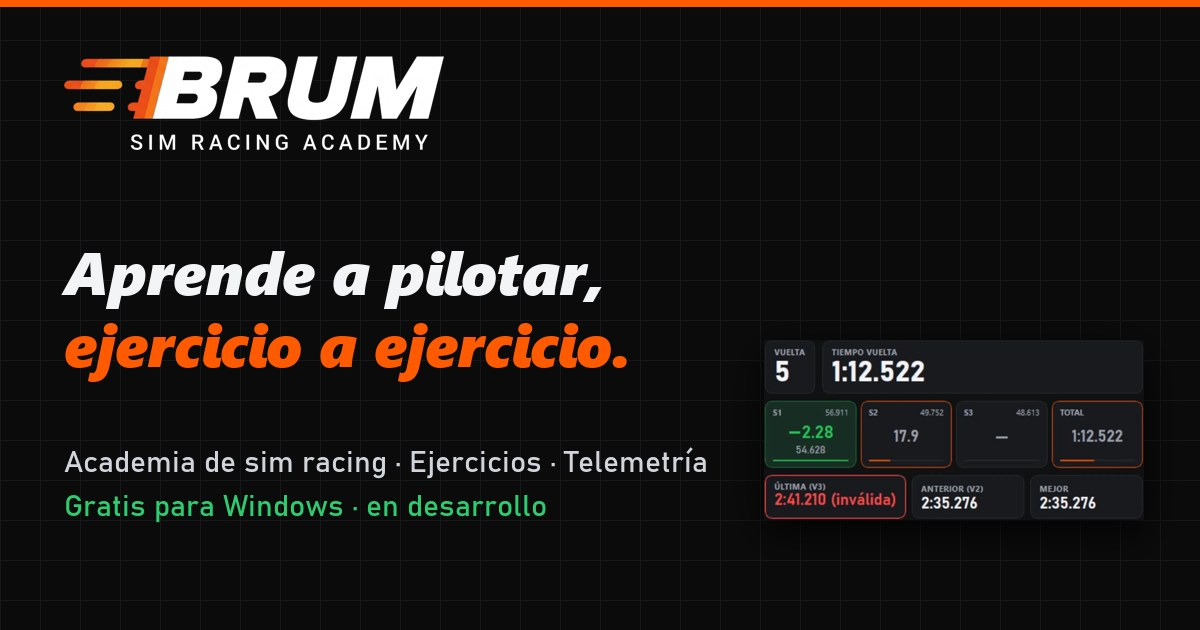
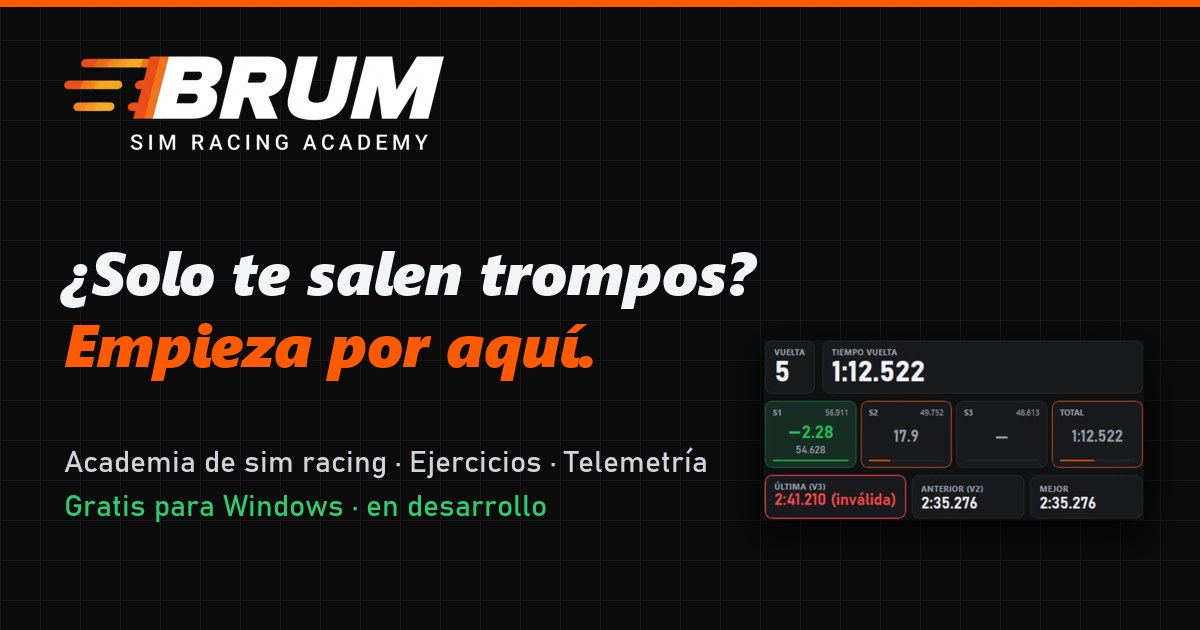
Web: vuelve la frase de portada y En vivo animado como imagen
- Titular de nuevo «¿Solo te salen trompos? Empieza por aquí.» (el que prefiere el autor).
- La portada enseña En vivo reproduciendo la vuelta real, con su captura detrás.
- La tarjeta del ejercicio pasa a su sección, «Así se gana una medalla.».
- Cómo funciona: se abre en «Conduce» con el vídeo de En vivo en marcha (antes no
  arrancaba) y ya no se corta por la derecha.
- Niveles en el móvil sin cortarse; «Usar vueltas que ya tengo» en Conduce.

Changed region(s): [[0.0308, 0.3921, 0.6475, 0.4825], [0.0617, 0.5127, 0.5242, 0.6032]]

diff --git a/index.html b/index.html
@@ -10,7 +10,7 @@
 <link rel="icon" type="image/png" sizes="32x32" href="assets/img/favicon-32.png">
 <link rel="apple-touch-icon" href="assets/img/apple-touch-icon.png">
 <meta property="og:type" content="website">
-<meta property="og:title" content="Brum · Aprende a pilotar, ejercicio a ejercicio.">
+<meta property="og:title" content="Brum · ¿Solo te salen trompos? Empieza por aquí.">
 <meta property="og:description" content="Academia de sim racing en tu PC: ejercicios, medallas y telemetría. Gratis para Windows.">
 <meta property="og:url" content="https://aangeelr.github.io/brum/">
 <meta property="og:image" content="https://aangeelr.github.io/brum/assets/img/redes.jpg">
@@ -53,11 +53,11 @@
 <section class="inicio" id="inicio">
   <div class="inicio-texto">
     <h1 class="titular">
-      <span class="linea"><span>Aprende a pilotar,</span></span>
-      <span class="linea"><span>ejercicio a ejercicio.</span></span>
+      <span class="linea"><span>¿Solo te salen trompos?</span></span>
+      <span class="linea"><span>Empieza por aquí.</span></span>
     </h1>
     <div class="inicio-abajo">
-      <p class="entrada">¿Solo te salen trompos? Normal. Brum es una academia de sim racing en tu PC: ejercicios cortos que te dicen qué hacer en pista y te corrigen con tu telemetría.</p>
+      <p class="entrada">Brum es una academia de sim racing en tu PC: ejercicios cortos que te dicen qué hacer en pista, te corrigen con tu telemetría y te dan Bronce, Plata u Oro.</p>
       <div class="accion">
         <a class="boton" href="https://github.com/aangeelr/brum/releases/latest/download/Brum-instalador.exe">
           <svg class="ico" viewBox="0 0 24 24" aria-hidden="true"><path d="M12 3v12m0 0-5-5m5 5 5-5M4 19h16" /></svg>
@@ -68,30 +68,51 @@
     </div>
   </div>
 
-  <figure class="inicio-ej">
-    <div class="ej-escena" data-tilt>
-      <img class="ej-fondo" src="assets/capturas/ejercicio-ficha-1600.webp" width="1600" height="814" alt="" aria-hidden="true" fetchpriority="high">
-      <div class="ej" data-ui data-ej role="img" aria-label="Ejemplo de tres intentos del ejercicio Track Limits: sin medalla, Plata y Oro, según las vueltas invalidadas.">
-        <div class="ej-cab" aria-hidden="true">
-          <span class="nivel nivel-1">Fundamentos</span>
-          <b>Track Limits</b><span class="ej-vueltas">8 vueltas</span>
+  <figure class="inicio-ej inicio-hud">
+    <div class="hud-escena" data-tilt>
+      <img class="hud-fondo" src="assets/capturas/envivo-1600.webp" width="1600" height="814" alt="" aria-hidden="true" fetchpriority="high">
+      <div class="hud" data-ui data-hud role="img" aria-label="Reproducción de una vuelta real en Oulton Park: el delta, los sectores, los pedales y la velocidad cambian como en la pantalla En vivo de Brum.">
+        <div class="hud-cab" aria-hidden="true">
+          <span class="hud-titulo">En vivo</span>
+          <span class="hud-grab"><i></i>Assetto Corsa EVO · Oulton Park · MX-5 ND Cup</span>
         </div>
-        <p class="ej-obj" aria-hidden="true"><b>Objetivo:</b> 8 vueltas seguidas con como mucho una invalidada por salida de pista.</p>
-        <div class="ej-medallas" aria-hidden="true">
-          <div class="med med-oro" data-med="3"><i>★★★</i><b>Oro</b><span>hasta 1 fuera</span></div>
-          <div class="med med-plata" data-med="2"><i>★★</i><b>Plata</b><span>hasta 2</span></div>
-          <div class="med med-bronce" data-med="1"><i>★</i><b>Bronce</b><span>hasta 3</span></div>
+        <div class="hud-delta" aria-hidden="true">
+          <div class="hud-delta-cab"><b>Delta</b> vs vuelta anterior 1:15.777 <span class="hud-delta-n" data-hud-delta>±0.000</span></div>
+          <div class="hud-barra"><span class="hud-barra-0"></span><span class="hud-barra-f" data-hud-barra></span></div>
+          <div class="hud-escala"><span>+1.5</span><span>+1</span><span>+0.5</span><span>0</span><span>−0.5</span><span>−1</span><span>−1.5</span></div>
         </div>
-        <div class="ej-intento" aria-hidden="true">
-          <div class="ej-intento-cab"><b data-ej-n>Intento 1</b><span>Invalidadas <b data-ej-inv>0</b></span></div>
-          <ol class="ej-chips" data-ej-chips>
-            <li>V1</li><li>V2</li><li>V3</li><li>V4</li><li>V5</li><li>V6</li><li>V7</li><li>V8</li>
-          </ol>
+        <div class="hud-cuerpo" aria-hidden="true">
+          <div class="hud-izq">
+            <div class="hud-fila">
+              <div class="hud-caja hud-vuelta"><small>Vuelta</small><b>2</b></div>
+              <div class="hud-caja hud-tiempo"><small>Tiempo vuelta</small><b data-hud-tiempo>0:00.000</b></div>
+            </div>
+            <div class="hud-sectores">
+              <div class="hud-sec" data-sec="0"><small>S1 <i data-ref></i></small><b data-d>—</b><em data-t></em><span class="hud-sec-p"><span data-p></span></span></div>
+              <div class="hud-sec" data-sec="1"><small>S2 <i data-ref></i></small><b data-d>—</b><em data-t></em><span class="hud-sec-p"><span data-p></span></span></div>
+              <div class="hud-sec" data-sec="2"><small>S3 <i data-ref></i></small><b data-d>—</b><em data-t></em><span class="hud-sec-p"><span data-p></span></span></div>
+              <div class="hud-sec hud-total" data-total><small>Total</small><b data-d>—</b><em data-t></em></div>
+            </div>
+            <div class="hud-fila hud-ult">
+              <div class="hud-caja" data-ultima><small>Última</small><b data-v>—</b></div>
+              <div class="hud-caja"><small>Anterior</small><b>1:15.777</b></div>
+              <div class="hud-caja" data-mejor><small>Mejor</small><b data-v>1:15.777</b></div>
+            </div>
+          </div>
+          <div class="hud-der">
+            <div class="hud-graf"><small>Pedales</small><canvas data-hud-pedales width="420" height="150"></canvas></div>
+            <div class="hud-graf"><small>Velocidad · km/h <b data-hud-kmh>0</b></small><canvas data-hud-vel width="420" height="150"></canvas></div>
+          </div>
         </div>
-        <p class="ej-res" data-ej-res aria-hidden="true">Conduciendo…</p>
+        <div class="hud-pie" aria-hidden="true">
+          <span>Distancia <b data-hud-dist>0</b> m</span>
+          <span>Marcha <b data-hud-marcha>3</b></span>
+          <span>RPM <b data-hud-rpm>0</b></span>
+        </div>
+        <div class="hud-meta" data-hud-meta aria-hidden="true"><span>Nueva mejor vuelta</span><b>1:14.847</b><em>−0.926</em></div>
       </div>
     </div>
-    <figcaption>Intentos de ejemplo con las reglas reales de Track Limits, uno de los ejercicios de Fundamentos.</figcaption>
+    <figcaption>Una vuelta real en Oulton Park con el MX-5 ND Cup contra la anterior, reproducida a triple velocidad.</figcaption>
   </figure>
 </section>
 
@@ -150,6 +171,39 @@
   </article>
 </section>
 
+<!-- ===================== UN INTENTO ===================== -->
+<section class="intento" aria-labelledby="intento-t">
+  <div class="intento-texto" data-revela>
+    <h2 id="intento-t">Así se gana una medalla.</h2>
+    <p>Cada ejercicio te dice qué hacer y cuántos fallos se permiten para el Bronce, la Plata o el Oro. Lo intentas, Brum mira tu telemetría vuelta a vuelta y te dice dónde fallaste. Y repites.</p>
+  </div>
+  <figure class="intento-fig">
+    <div class="ej-escena">
+      <img class="ej-fondo" src="assets/capturas/ejercicio-ficha-1600.webp" width="1600" height="814" alt="" aria-hidden="true" loading="lazy">
+      <div class="ej" data-ui data-ej role="img" aria-label="Ejemplo de tres intentos del ejercicio Track Limits: sin medalla, Plata y Oro, según las vueltas invalidadas.">
+        <div class="ej-cab" aria-hidden="true">
+          <span class="nivel nivel-1">Fundamentos</span>
+          <b>Track Limits</b><span class="ej-vueltas">8 vueltas</span>
+        </div>
+        <p class="ej-obj" aria-hidden="true"><b>Objetivo:</b> 8 vueltas seguidas con como mucho una invalidada por salida de pista.</p>
+        <div class="ej-medallas" aria-hidden="true">
+          <div class="med med-oro" data-med="3"><i>★★★</i><b>Oro</b><span>hasta 1 fuera</span></div>
+          <div class="med med-plata" data-med="2"><i>★★</i><b>Plata</b><span>hasta 2</span></div>
+          <div class="med med-bronce" data-med="1"><i>★</i><b>Bronce</b><span>hasta 3</span></div>
+        </div>
+        <div class="ej-intento" aria-hidden="true">
+          <div class="ej-intento-cab"><b data-ej-n>Intento 1</b><span>Invalidadas <b data-ej-inv>0</b></span></div>
+          <ol class="ej-chips" data-ej-chips>
+            <li>V1</li><li>V2</li><li>V3</li><li>V4</li><li>V5</li><li>V6</li><li>V7</li><li>V8</li>
+          </ol>
+        </div>
+        <p class="ej-res" data-ej-res aria-hidden="true">Conduciendo…</p>
+      </div>
+    </div>
+    <figcaption>Intentos de ejemplo con las reglas reales de Track Limits, uno de los ejercicios de Fundamentos.</figcaption>
+  </figure>
+</section>
+
 <!-- ===================== NIVELES ===================== -->
 <section class="niveles" id="niveles" data-niveles aria-labelledby="niv-t">
   <div class="niveles-cab" data-revela>
@@ -185,11 +239,11 @@
 </section>
 
 <!-- ===================== CÓMO ===================== -->
-<section class="como" id="como" data-etapas data-etapa="0" aria-labelledby="como-t">
+<section class="como" id="como" data-etapas data-etapa="1" aria-labelledby="como-t">
   <h2 class="vh" id="como-t">Cómo funciona un ejercicio</h2>
   <div class="como-campo como-texto">
     <div class="etapa-t" data-et="0"><h3>Lee la ficha.</h3><p>Qué hacer en el simulador, paso a paso, y qué pide el Oro, la Plata y el Bronce. Antes de salir, no después.</p></div>
-    <div class="etapa-t" data-et="1"><h3>Conduce.</h3><p>Con «Conducirlo ahora», Brum graba y empieza a contar las vueltas cuando le dices que estás en posición.</p></div>
+    <div class="etapa-t" data-et="1"><h3>Conduce.</h3><p>Con «Conducirlo ahora», Brum graba y empieza a contar las vueltas cuando le dices que estás en posición. O, con «Usar vueltas que ya tengo», puntúa vueltas que ya grabaste.</p></div>
     <div class="etapa-t" data-et="2"><h3>Brum te corrige.</h3><p>Lee tu telemetría y te dice qué ha fallado y en qué vuelta: aquí, cuántas veces pisaste gas y freno a la vez.</p></div>
     <div class="etapa-t" data-et="3"><h3>Medalla, y a por otra.</h3><p>Cada ejercicio da XP, dinero de la app y puntos de licencia. Con la XP se abren los niveles siguientes.</p></div>
   </div>
@@ -206,7 +260,7 @@
   <div class="como-control">
     <label class="rango rango-etapas">
       <span class="vh">Paso</span>
-      <input type="range" min="0" max="3" step="1" value="0" data-etapas-rango aria-valuetext="Ficha">
+      <input type="range" min="0" max="3" step="1" value="1" data-etapas-rango aria-valuetext="Conduce">
     </label>
     <div class="etapas-nombres">
       <button type="button" data-ir="0">Ficha</button>
@@ -265,65 +319,11 @@
   </div>
 </section>
 
-<!-- ===================== TELEMETRÍA ===================== -->
-<section class="tele" id="telemetria" aria-labelledby="tele-t">
-  <div class="tele-texto" data-revela>
-    <h2 id="tele-t">Y cuando quieras mirar más a fondo.</h2>
-    <p>Debajo de los ejercicios hay telemetría de verdad. Mientras conduces, En vivo te enseña el delta, los sectores, los pedales y la velocidad.</p>
-  </div>
-  <figure class="hud-figura">
-    <div class="hud-escena" data-tilt-hud>
-      <img class="hud-fondo" src="assets/capturas/envivo-1600.webp" width="1600" height="814" alt="" aria-hidden="true" loading="lazy">
-      <div class="hud" data-ui data-hud role="img" aria-label="Reproducción de una vuelta real en Oulton Park: el delta, los sectores, los pedales y la velocidad cambian como en la pantalla En vivo de Brum.">
-        <div class="hud-cab" aria-hidden="true">
-          <span class="hud-titulo">En vivo</span>
-          <span class="hud-grab"><i></i>Assetto Corsa EVO · Oulton Park · MX-5 ND Cup</span>
-        </div>
-        <div class="hud-delta" aria-hidden="true">
-          <div class="hud-delta-cab"><b>Delta</b> vs vuelta anterior 1:15.777 <span class="hud-delta-n" data-hud-delta>±0.000</span></div>
-          <div class="hud-barra"><span class="hud-barra-0"></span><span class="hud-barra-f" data-hud-barra></span></div>
-          <div class="hud-escala"><span>+1.5</span><span>+1</span><span>+0.5</span><span>0</span><span>−0.5</span><span>−1</span><span>−1.5</span></div>
-        </div>
-        <div class="hud-cuerpo" aria-hidden="true">
-          <div class="hud-izq">
-            <div class="hud-fila">
-              <div class="hud-caja hud-vuelta"><small>Vuelta</small><b>2</b></div>
-              <div class="hud-caja hud-tiempo"><small>Tiempo vuelta</small><b data-hud-tiempo>0:00.000</b></div>
-            </div>
-            <div class="hud-sectores">
-              <div class="hud-sec" data-sec="0"><small>S1 <i data-ref></i></small><b data-d>—</b><em data-t></em><span class="hud-sec-p"><span data-p></span></span></div>
-              <div class="hud-sec" data-sec="1"><small>S2 <i data-ref></i></small><b data-d>—</b><em data-t></em><span class="hud-sec-p"><span data-p></span></span></div>
-              <div class="hud-sec" data-sec="2"><small>S3 <i data-ref></i></small><b data-d>—</b><em data-t></em><span class="hud-sec-p"><span data-p></span></span></div>
-              <div class="hud-sec hud-total" data-total><small>Total</small><b data-d>—</b><em data-t></em></div>
-            </div>
-            <div class="hud-fila hud-ult">
-              <div class="hud-caja" data-ultima><small>Última</small><b data-v>—</b></div>
-              <div class="hud-caja"><small>Anterior</small><b>1:15.777</b></div>
-              <div class="hud-caja" data-mejor><small>Mejor</small><b data-v>1:15.777</b></div>
-            </div>
-          </div>
-          <div class="hud-der">
-            <div class="hud-graf"><small>Pedales</small><canvas data-hud-pedales width="420" height="150"></canvas></div>
-            <div class="hud-graf"><small>Velocidad · km/h <b data-hud-kmh>0</b></small><canvas data-hud-vel width="420" height="150"></canvas></div>
-          </div>
-        </div>
-        <div class="hud-pie" aria-hidden="true">
-          <span>Distancia <b data-hud-dist>0</b> m</span>
-          <span>Marcha <b data-hud-marcha>3</b></span>
-          <span>RPM <b data-hud-rpm>0</b></span>
-        </div>
-        <div class="hud-meta" data-hud-meta aria-hidden="true"><span>Nueva mejor vuelta</span><b>1:14.847</b><em>−0.926</em></div>
-      </div>
-    </div>
-    <figcaption>Una vuelta real en Oulton Park con el MX-5 ND Cup contra la anterior, reproducida a triple velocidad.</figcaption>
-  </figure>
-</section>
-
 <!-- ===================== BANCO DE DATOS ===================== -->
-<section class="banco" id="datos" aria-labelledby="banco-t">
+<section class="banco" id="telemetria" aria-labelledby="banco-t">
   <div class="banco-texto" data-revela>
     <h2 id="banco-t">Todo lo que hace el coche, grabado.</h2>
-    <p>Fuerzas G, pedales, volante, temperatura y presión de cada neumático, frenos y suspensión. Esto es una vuelta real, a velocidad real: arrastra la barra de abajo para ir a cualquier punto.</p>
+    <p>Debajo de los ejercicios hay telemetría de verdad: fuerzas G, pedales, volante, temperatura y presión de cada neumático, frenos y suspensión. Esto es una vuelta real, a velocidad real: arrastra la barra de abajo para ir a cualquier punto.</p>
   </div>
   <figure class="banco-fig">
     <div class="banco-panel" data-ui data-banco>

diff --git a/css/brum.css b/css/brum.css
@@ -257,7 +257,7 @@ html.quieto *, html.quieto *::before, html.quieto *::after { animation-play-stat
 
 /* ---------- Cómo ---------- */
 .como { position: relative; display: grid; grid-template-columns: 1fr 1fr; min-height: 88svh; }
-.como-campo { position: relative; display: grid; }
+.como-campo { position: relative; display: grid; grid-template-columns: minmax(0, 1fr); }
 .como-texto { background: var(--suelo-2); padding: clamp(64px, 9vw, 120px) var(--margen) 180px; }
 .como-media { background: var(--sup); place-items: center start; padding: clamp(48px, 6vw, 96px) clamp(24px, 4vw, 64px) 180px; perspective: 1600px; overflow: hidden; }
 .etapa-t, .etapa-m { grid-area: 1 / 1; transition: opacity 260ms ease, filter 260ms ease, transform 420ms var(--ease-out); }
@@ -435,7 +435,7 @@ html.quieto *, html.quieto *::before, html.quieto *::after { animation-play-stat
 
 /* ---------- Inicio: el ejercicio ---------- */
 .inicio-ej { grid-column: 6 / -1; grid-row: 2; perspective: 1800px; margin: 0; }
-.inicio-ej figcaption, .hud-figura figcaption { position: relative; z-index: 2; margin-top: 22px; font-size: var(--t-5); color: var(--apagado); max-width: 58ch; }
+.inicio-ej figcaption, .intento-fig figcaption { position: relative; z-index: 2; margin-top: 22px; font-size: var(--t-5); color: var(--apagado); max-width: 58ch; }
 .ej-escena { position: relative; transform-style: preserve-3d; transform: rotateY(var(--ry, -7deg)) rotateX(var(--rx, 4deg)); will-change: transform; }
 .ej-fondo { position: absolute; width: 88%; right: -7%; top: -12%; transform: translateZ(-160px); filter: brightness(0.36) saturate(0.7) blur(1.5px); border-radius: 12px; pointer-events: none; }
 .ej {
@@ -498,7 +498,7 @@ html.quieto *, html.quieto *::before, html.quieto *::after { animation-play-stat
 /* ---------- Qué te pasa ---------- */
 .prob { display: grid; grid-template-columns: repeat(12, minmax(0, 1fr)); column-gap: 24px; row-gap: 36px; padding: var(--hueco) var(--margen); }
 .prob-texto { grid-column: 1 / 7; }
-.prob-texto p, .niveles-cab p, .prog-cab p, .tele-texto p, .banco-texto p, .pest-cab p, .obras-texto > p:first-of-type { margin-top: 22px; font-size: var(--t-3); line-height: 1.35; max-width: 34ch; }
+.prob-texto p, .niveles-cab p, .prog-cab p, .intento-texto p, .banco-texto p, .pest-cab p, .obras-texto > p:first-of-type { margin-top: 22px; font-size: var(--t-3); line-height: 1.35; max-width: 34ch; }
 .prob-lista { grid-column: 1 / 7; display: flex; flex-wrap: wrap; gap: 10px; align-content: start; }
 .prob-b { border: 0; background: var(--sup); padding: 14px 18px; font-size: 17px; font-weight: 600; text-align: left; cursor: pointer; transition: background-color 200ms ease, color 200ms ease, transform 160ms var(--ease-out); }
 .prob-b:active { transform: scale(0.97); }
@@ -580,9 +580,11 @@ html.quieto *, html.quieto *::before, html.quieto *::after { animation-play-stat
 .ti-tema::after { background: var(--c2); right: 14px; }
 
 /* ---------- Telemetría ---------- */
-.tele { display: grid; grid-template-columns: repeat(12, minmax(0, 1fr)); column-gap: 24px; row-gap: 40px; padding: var(--hueco) var(--margen) clamp(64px, 8vw, 120px); }
-.tele-texto { grid-column: 1 / 5; align-self: center; }
-.hud-figura { grid-column: 5 / -1; margin: 0; perspective: 1800px; }
+.inicio-hud { grid-column: 5 / -1; }
+.intento { overflow: clip; display: grid; grid-template-columns: repeat(12, minmax(0, 1fr)); column-gap: 24px; row-gap: 48px; padding: 0 var(--margen) var(--hueco); }
+.intento-texto { grid-column: 1 / 6; align-self: center; }
+.intento-texto h2 { font-size: clamp(34px, 3.6vw, 58px); }
+.intento-fig { grid-column: 6 / -1; margin: 0; perspective: 1800px; }
 
 /* ---------- Simuladores: lo que viene ---------- */
 .ficha-proximo { grid-column: span 2; aspect-ratio: auto; min-height: 220px; background: #19142B; }
@@ -720,7 +722,7 @@ html.quieto *, html.quieto *::before, html.quieto *::after { animation-play-stat
   .inicio-ej { grid-column: 1 / -1; grid-row: 3; }
   .rafaga-video, .rafaga-texto { grid-column: 1 / -1; grid-row: auto; }
   .rafaga-texto { background: none; padding: 0; }
-  .prob-texto, .prob-lista, .tele-texto, .hud-figura, .prog-cab, .medallas, .tienda, .obras-texto, .versiones, .trabajo { grid-column: 1 / -1; }
+  .prob-texto, .prob-lista, .intento-texto, .intento-fig, .inicio-hud, .prog-cab, .medallas, .tienda, .obras-texto, .versiones, .trabajo { grid-column: 1 / -1; }
   .versiones { grid-row: auto; }
   .inicio-ej { grid-column: 1 / -1; }
   .banco-panel { grid-template-columns: minmax(0, 1fr) minmax(0, 0.7fr); grid-template-areas: "cab cab" "coche coche" "gg mandos" "linea linea"; }
@@ -788,8 +790,8 @@ html.quieto *, html.quieto *::before, html.quieto *::after { animation-play-stat
   .prob-b { font-size: 16px; padding: 12px 14px; }
   .ficha-ej h3 { font-size: 34px; }
   .ficha-ej dd { font-size: 17px; }
-  .niv { grid-template-columns: 1fr; min-height: 0; top: calc(var(--barra) + 12px + var(--i) * 14px); }
-  .niv h3 { font-size: 13vw; }
+  .niv { grid-template-columns: minmax(0, 1fr); min-height: 0; top: calc(var(--barra) + 12px + var(--i) * 14px); }
+  .niv h3 { font-size: 9.4vw; }
   .lic-esc { gap: 4px; }
   .lic-esc li { padding: 10px 2px; }
   .lic-esc li b { font-size: 18px; }

diff --git a/tools/zonas.js b/tools/zonas.js
@@ -1,0 +1,18 @@
+async page => {
+  const dir = '.impeccable/review';
+  const out = [];
+  for (const [w, h, pre] of [[1440, 900, 'z'], [390, 844, 'zm']]) {
+    await page.setViewportSize({ width: w, height: h });
+    await page.goto('http://localhost:8642/');
+    await page.waitForTimeout(800);
+    for (const [sel, n] of [['#inicio', 'inicio'], ['.intento', 'intento'], ['#niveles', 'niveles'], ['#como', 'como']]) {
+      await page.evaluate((s) => { const el = document.querySelector(s); scrollTo(0, el.getBoundingClientRect().top + scrollY - 70); }, sel);
+      await page.waitForTimeout(1800);
+      await page.screenshot({ path: `${dir}/${pre}-${n}.png` });
+    }
+    const v = await page.evaluate(() => { const v = document.querySelector('[data-video]'); return `video paused=${v.paused} t=${v.currentTime.toFixed(1)}`; });
+    out.push(`${pre} ${v} ancho ${await page.evaluate(() => document.documentElement.scrollWidth)}`);
+  }
+  await page.setViewportSize({ width: 1440, height: 900 });
+  return out.join(' | ');
+}

diff --git a/js/brum.js b/js/brum.js
@@ -533,15 +533,15 @@
       rango.value = n;
       rango.parentElement.style.setProperty("--p", (n / 3).toFixed(3));
       rango.setAttribute("aria-valuetext", nombres[n].textContent);
-      if (video) reproduce(video, n === 0 && enVista);
+      if (video) reproduce(video, n === 1 && enVista);
     }
     rango.addEventListener("input", () => ve(Number(rango.value)));
     nombres.forEach((b, i) => b.addEventListener("click", () => ve(i)));
     new IntersectionObserver((ents) => {
       enVista = ents[0].isIntersecting;
-      if (video) { if (enVista) video.preload = "auto"; reproduce(video, enVista && Number(et.dataset.etapa) === 0); }
+      if (video) { if (enVista) video.preload = "auto"; reproduce(video, enVista && Number(et.dataset.etapa) === 1); }
     }, { threshold: 0.35 }).observe(et);
-    ve(0);
+    ve(1); // Se abre en Conduce: la telemetría en directo, moviéndose
   }
 
   // ---------- Mejora: 32 vueltas reales ----------

diff --git a/tools/preparar_assets.py b/tools/preparar_assets.py
@@ -109,8 +109,8 @@ def imagen_redes(logo):
         negra = fuentes / "segoeuib.ttf"
     f1 = ImageFont.truetype(str(negra), 60)
     f2 = ImageFont.truetype(str(fuentes / "bahnschrift.ttf"), 30)
-    d.text((64, 230), "Aprende a pilotar,", font=f1, fill="#F3F4F6")
-    d.text((64, 302), "ejercicio a ejercicio.", font=f1, fill="#FF5A00")
+    d.text((64, 230), "¿Solo te salen trompos?", font=f1, fill="#F3F4F6")
+    d.text((64, 302), "Empieza por aquí.", font=f1, fill="#FF5A00")
     d.text((64, 448), "Academia de sim racing · Ejercicios · Telemetría", font=f2, fill="#D1D5DB")
     d.text((64, 492), "Gratis para Windows · en desarrollo", font=f2, fill="#2ECC71")
     sect = Image.open(OUT / "capturas" / "envivo-sectores-735.webp").convert("RGB")
